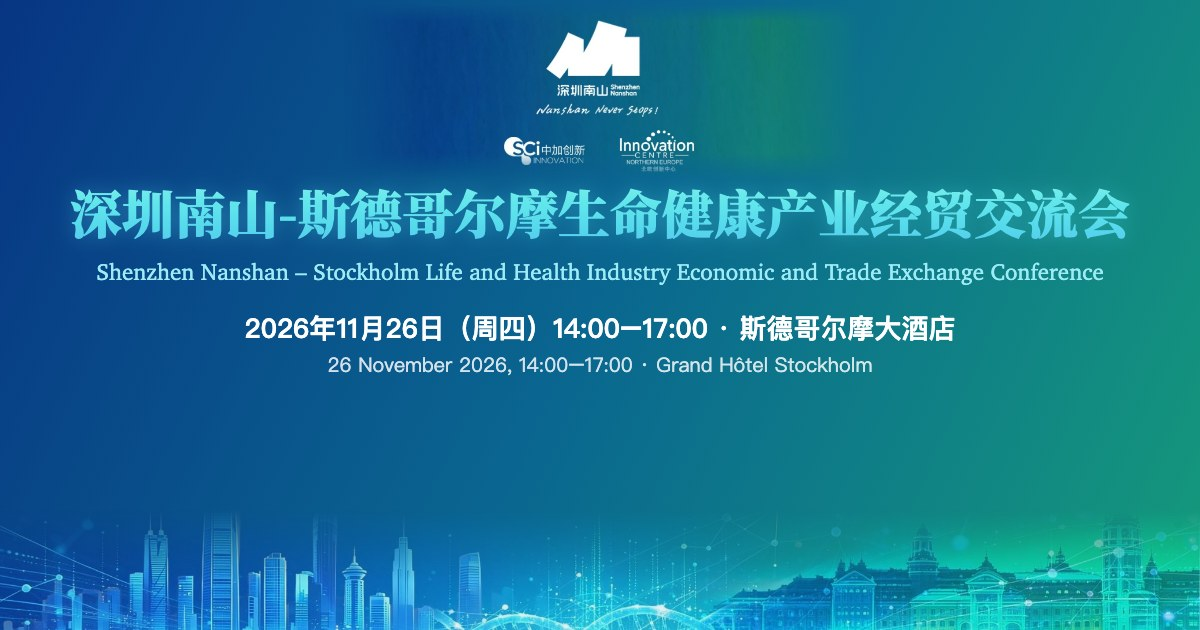
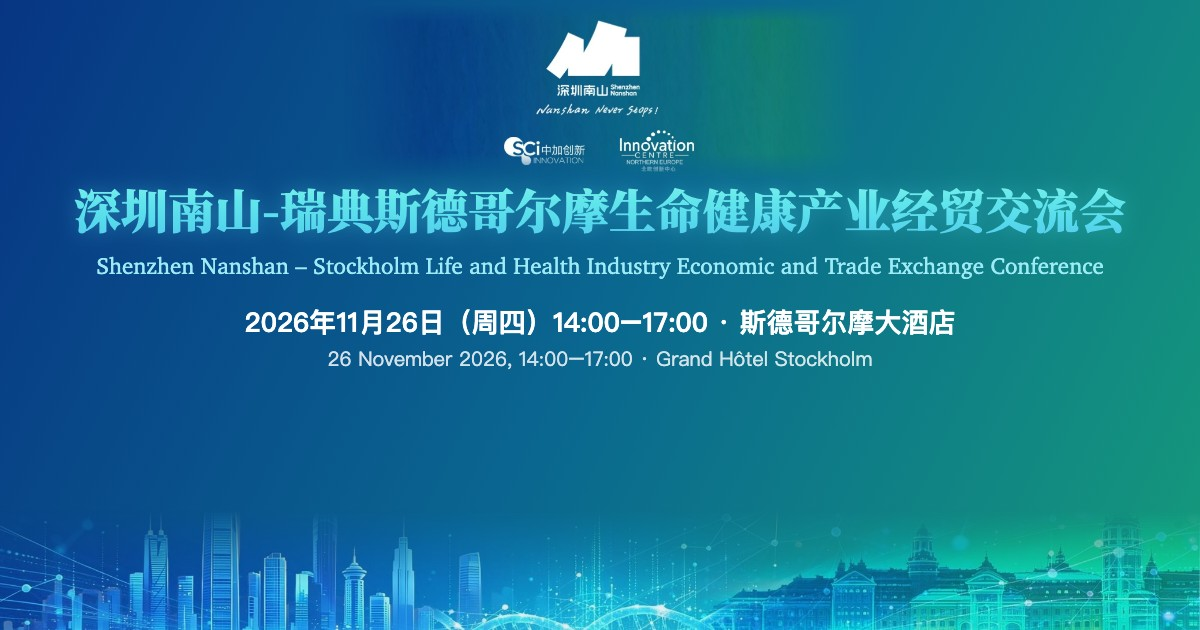
11-06 会名加「瑞典」

Changed region(s): [[0.0617, 0.3016, 0.9558, 0.4524], [0.185, 0.4825, 0.8017, 0.6032]]

diff --git a/index.html b/index.html
@@ -3,15 +3,15 @@
 <head>
 <meta charset="utf-8">
 <meta name="viewport" content="width=device-width, initial-scale=1">
-<title>深圳南山-斯德哥尔摩生命健康产业经贸交流会 | Shenzhen Nanshan – Stockholm Exchange Conference</title>
+<title>深圳南山-瑞典斯德哥尔摩生命健康产业经贸交流会 | Shenzhen Nanshan – Stockholm Exchange Conference</title>
 <meta name="description" content="2026年11月26日 14:00–17:00 · 斯德哥尔摩大酒店 Grand Hôtel Stockholm">
-<meta property="og:title" content="深圳南山-斯德哥尔摩生命健康产业经贸交流会 Shenzhen Nanshan – Stockholm Life and Health Industry Economic and Trade Exchange Conference">
+<meta property="og:title" content="深圳南山-瑞典斯德哥尔摩生命健康产业经贸交流会 Shenzhen Nanshan – Stockholm Life and Health Industry Economic and Trade Exchange Conference">
 <meta property="og:description" content="2026年11月26日（周四）14:00–17:00 · 斯德哥尔摩大酒店 New York 厅 | 26 November 2026, 14:00–17:00 · Grand Hôtel Stockholm, New York Room · 邀请函、议程及报名 Invitation, agenda &amp; registration">
 <meta property="og:image" content="https://icne-nordic.github.io/nanshan2026/og-card.jpg">
 <meta property="og:image:width" content="1200"><meta property="og:image:height" content="630">
 <meta property="og:url" content="https://icne-nordic.github.io/nanshan2026/"><meta property="og:type" content="website">
 <meta name="twitter:card" content="summary_large_image"><meta name="twitter:image" content="https://icne-nordic.github.io/nanshan2026/og-card.jpg">
-<link rel="preconnect" href="https://fonts.googleapis.com"><link rel="preconnect" href="https://fonts.gstatic.com" crossorigin><link href="https://fonts.googleapis.com/css2?family=Noto+Serif+SC:wght@900&text=%E6%B7%B1%E5%9C%B3%E5%8D%97%E5%B1%B1-%E6%96%AF%E5%BE%B7%E5%93%A5%E5%B0%94%E6%91%A9%E7%94%9F%E5%91%BD%E5%81%A5%E5%BA%B7%E4%BA%A7%E4%B8%9A%E7%BB%8F%E8%B4%B8%E4%BA%A4%E6%B5%81%E4%BC%9A&display=swap" rel="stylesheet">
+<link rel="preconnect" href="https://fonts.googleapis.com"><link rel="preconnect" href="https://fonts.gstatic.com" crossorigin><link href="https://fonts.googleapis.com/css2?family=Noto+Serif+SC:wght@900&text=%E7%91%9E%E5%85%B8%E6%B7%B1%E5%9C%B3%E5%8D%97%E5%B1%B1-%E6%96%AF%E5%BE%B7%E5%93%A5%E5%B0%94%E6%91%A9%E7%94%9F%E5%91%BD%E5%81%A5%E5%BA%B7%E4%BA%A7%E4%B8%9A%E7%BB%8F%E8%B4%B8%E4%BA%A4%E6%B5%81%E4%BC%9A&display=swap" rel="stylesheet">
 <style>
 :root { --cyan:#5adff0; --ink:#fff; --soft:rgba(255,255,255,.78); --card:rgba(255,255,255,.08); --line:rgba(255,255,255,.16) }
 * { box-sizing:border-box; margin:0; padding:0 }
@@ -20,7 +20,7 @@ body { font:15px/1.7 -apple-system,BlinkMacSystemFont,"PingFang SC","Hiragino Sa
   background:linear-gradient(115deg,#073583 0%,#0a6790 50%,#159a7b 100%) fixed; min-height:100vh; -webkit-text-size-adjust:100% }
 .wrap { max-width:480px; margin:0 auto; position:relative }
 .banner { width:100%; display:block; -webkit-mask-image:linear-gradient(#000 88%,transparent); mask-image:linear-gradient(#000 88%,transparent) }
-.zhtitle { text-align:center; margin:2px 12px 0; font:900 calc((100vw - 28px) / 21.5)/1.25 "Noto Serif SC","Songti SC","STSong",serif; letter-spacing:.01em;
+.zhtitle { text-align:center; margin:2px 12px 0; font:900 calc((100vw - 28px) / 23.5)/1.25 "Noto Serif SC","Songti SC","STSong",serif; letter-spacing:.01em;
   background:linear-gradient(#7aeeea,#62e6ec 30%,#55d8ec 70%,#5ac6ed); -webkit-background-clip:text; background-clip:text; color:transparent;
   filter:drop-shadow(0 0 10px rgba(90,223,240,.35)) }
 .entitle { text-align:center; padding:6px 16px 0; font:16px/1.45 Charter,Georgia,"Times New Roman",serif; color:#9debf7; letter-spacing:.01em; text-wrap:balance }
@@ -88,7 +88,7 @@ h2 em { font-style:normal; font-size:13px; color:var(--cyan); letter-spacing:.08
   body { font-size:16px }
   .wrap { max-width:1080px; padding:0 32px }
   .banner { width:100vw; max-width:none; margin:0 0 0 calc(50% - 50vw); -webkit-mask-image:linear-gradient(#000 80%,transparent); mask-image:linear-gradient(#000 80%,transparent) }
-  .zhtitle { font-size:clamp(34px,3vw,56px); margin-top:6px }
+  .zhtitle { font-size:clamp(32px,2.6vw,48px); margin-top:6px; white-space:nowrap }
   .entitle { font-size:clamp(19px,1.45vw,26px); padding-top:8px }
   .row b { font-size:18px } .row span, .row a { font-size:15.5px }
   .txt[lang=en] p { font-size:16.5px }
@@ -146,7 +146,7 @@ h2 em { font-style:normal; font-size:13px; color:var(--cyan); letter-spacing:.08
 </head>
 <body><div class="wrap">
 <picture><source media="(min-width: 820px)" srcset="banner_full.jpg"><img class="banner" src="banner_logo.jpg" alt=""></picture>
-<h1 class="zhtitle">深圳南山-斯德哥尔摩生命健康产业经贸交流会</h1>
+<h1 class="zhtitle">深圳南山-瑞典斯德哥尔摩生命健康产业经贸交流会</h1>
 <p class="entitle">Shenzhen Nanshan – Stockholm Life and Health Industry Economic and Trade Exchange Conference</p>
 
 <section>
@@ -168,7 +168,7 @@ h2 em { font-style:normal; font-size:13px; color:var(--cyan); letter-spacing:.08
  </div>
  <div class="txt" lang="zh">
   <p>为深化中国与北欧经贸务实往来，充分发挥海外华人华侨桥梁作用，促进深圳南山区与瑞典斯德哥尔摩双向产业对接。斯德哥尔摩作为北欧生物医药、绿色产业核心枢纽，南山区作为粤港澳大湾区战略性新兴产业高地，两地在生命健康、生物医药、绿色低碳、循环经济、数字工业等领域具备广阔合作空间。</p>
-  <p>由深圳市南山海外联谊会主办，深圳市加中创新中心有限公司承办，北欧深圳总商会、北欧创新中心协办，举办深圳南山-斯德哥尔摩生命健康产业经贸交流会，谨诚挚邀请您出席本次盛会。</p>
+  <p>由深圳市南山海外联谊会主办，深圳市加中创新中心有限公司承办，北欧深圳总商会、北欧创新中心协办，举办深圳南山-瑞典斯德哥尔摩生命健康产业经贸交流会，谨诚挚邀请您出席本次盛会。</p>
   <p>本次交流会汇集中瑞政府代表、高校专家、行业机构及生命健康领域重点企业，开展两地营商环境与产业政策推介，分享产业发展实践，搭建企业对接协作平台，深度挖掘双向投资与商业合作机遇，助力两地企业拓展北欧与中国市场。</p>
  </div>
  <div class="txt" lang="en" hidden>
